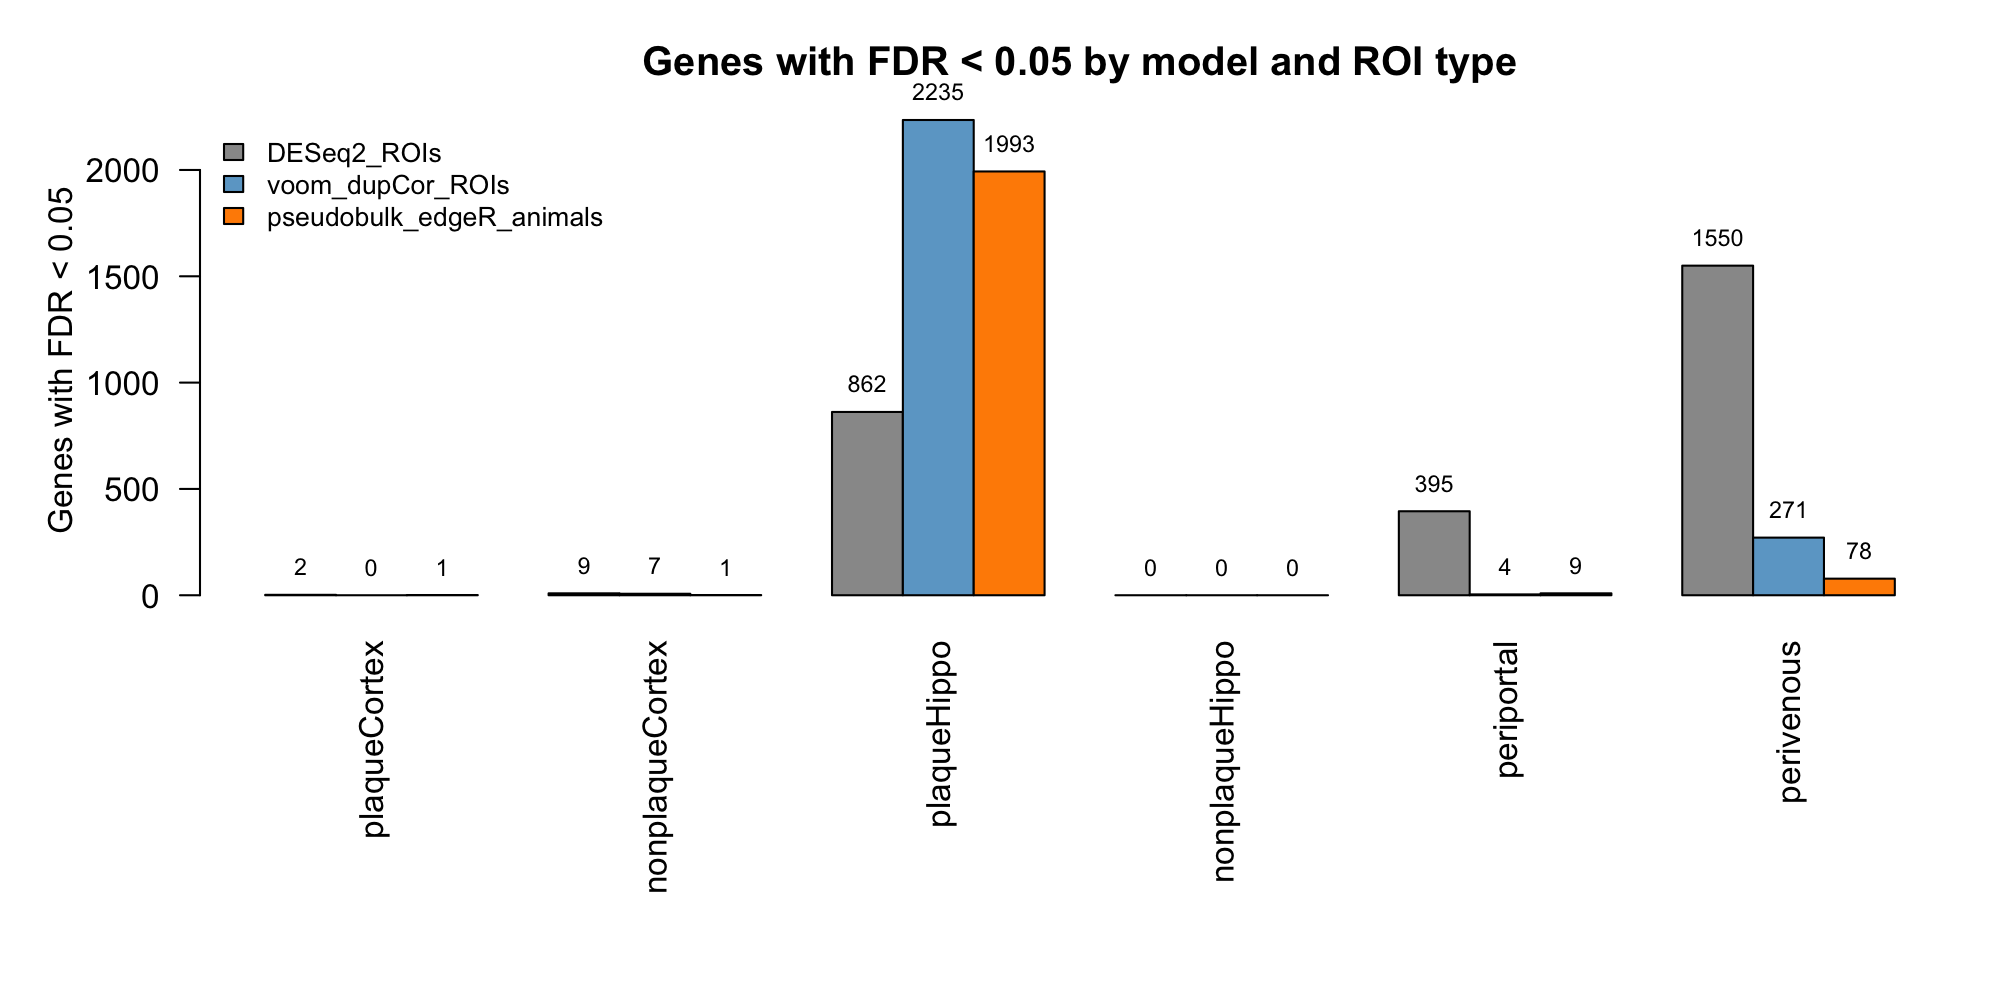
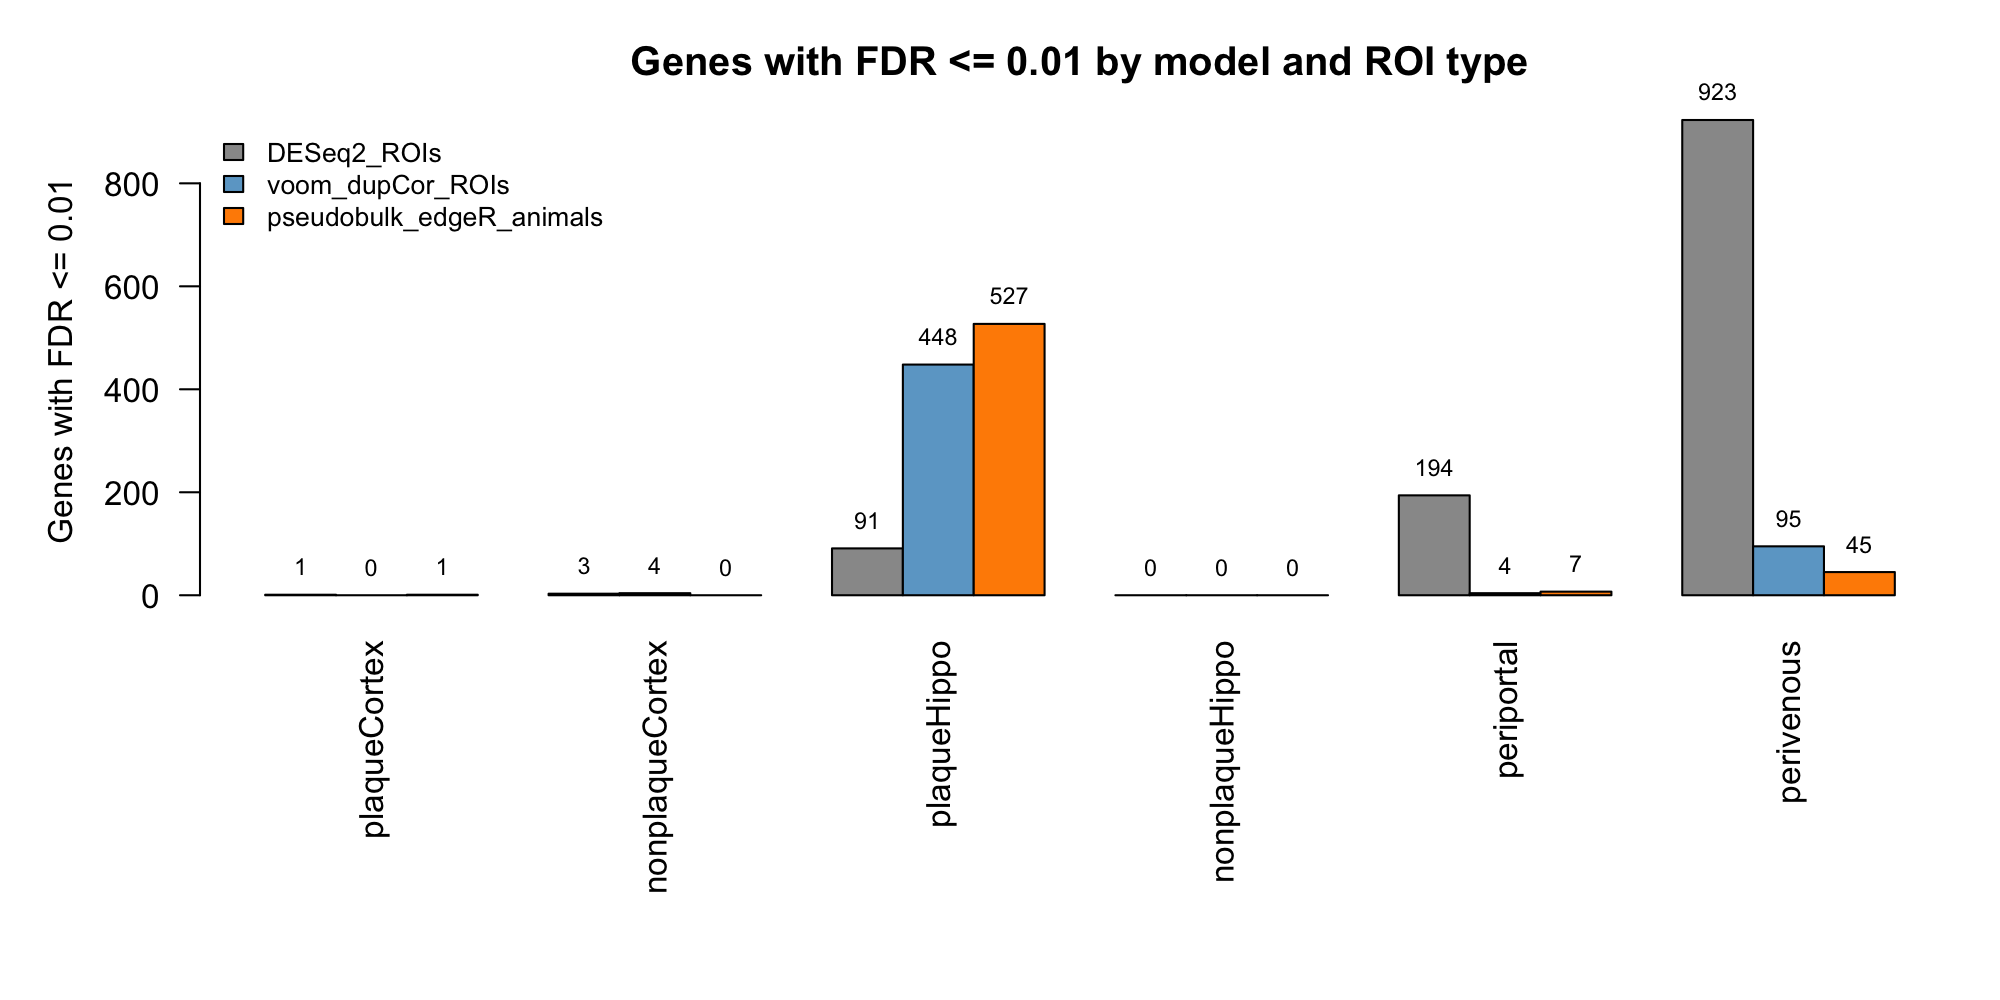
Use FDR <= 0.01 to match the original analysis
Applies to DEG counts, volcano plots, heatmaps, the label swap check and the filter check
README results table updated with the new counts

diff --git a/README.md b/README.md
@@ -50,20 +50,20 @@ The script `R/05_label_swap_check.R` reruns the pseudobulk model on each incorre
 
 ## Results
 
-The table below shows the results from the primary pseudobulk model.
+The table below shows the results from the primary pseudobulk model. Genes are called significant at FDR ≤ 0.01, which is the same cutoff used in the original analysis.
 
-| ROI type | Genes tested | Genes with FDR < 0.05 | Genes with FDR < 0.05 using the two incorrect pairings |
+| ROI type | Genes tested | Genes with FDR ≤ 0.01 | Genes with FDR ≤ 0.01 using the two incorrect pairings |
 |---|---|---|---|
-| plaqueCortex | 15570 | 1 | 3 / 1 |
-| nonplaqueCortex | 18549 | 1 | 19 / 8 |
-| plaqueHippo | 16624 | 1993 | 0 / 0 |
+| plaqueCortex | 15570 | 1 | 0 / 0 |
+| nonplaqueCortex | 18549 | 0 | 7 / 5 |
+| plaqueHippo | 16624 | 527 | 0 / 0 |
 | nonplaqueHippo | 17024 | 0 | 0 / 0 |
-| periportal | 19303 | 9 | 823 / 8 |
-| perivenous | 18235 | 78 | 12 / 23 |
+| periportal | 19303 | 7 | 284 / 5 |
+| perivenous | 18235 | 45 | 2 / 16 |
 
-The plaque bearing hippocampus is the only ROI type where the true grouping produces far more significant genes than the incorrect pairings. In the periportal liver, one incorrect pairing produced 823 significant genes compared with 9 for the true grouping, so the periportal results at the animal level should be interpreted carefully. With two animals per group, the genes found here are best treated as candidates for further validation.
+The plaque bearing hippocampus is the only ROI type where the true grouping produces far more significant genes than the incorrect pairings. The perivenous liver also produces more significant genes than either incorrect pairing, but the difference is smaller. In the periportal liver, one incorrect pairing produced 284 significant genes compared with 7 for the true grouping, so the periportal results at the animal level should be interpreted carefully. With two animals per group, the genes found here are best treated as candidates for further validation.
 
-The script `R/06_filter_sensitivity.R` also tests an optional filter that keeps genes based on their mean count. This filter is set by `thresholds: min_rowmean` and is turned off by default. The liver results change with this filter. For example, the number of perivenous genes with FDR < 0.05 drops from 78 to 31 when genes need a mean count of at least 50.
+The script `R/06_filter_sensitivity.R` also tests an optional filter that keeps genes based on their mean count. This filter is set by `thresholds: min_rowmean` and is turned off by default. The liver results change with this filter. For example, the number of perivenous genes with FDR ≤ 0.01 drops from 45 to 10 when genes need a mean count of at least 50.
 
 ## Running the Pipeline
 
@@ -86,7 +86,7 @@ R/05_label_swap_check.R    reruns the primary model with the incorrect animal pa
 R/06_filter_sensitivity.R  tests the optional mean count filter
 ```
 
-Each run saves its outputs to `results/`. The `dge_tables/` folder holds one table per ROI type and model, and `dge_summary.csv` summarizes them. The `volcano/`, `heatmaps/`, and `qc/` folders hold the figures. A heatmap is only drawn for ROI types with more than 10 pseudobulk DEGs, which are genes with FDR < 0.05 and an absolute log2 fold change above 0.32. The `ranked_lists/` folder holds ranked gene lists that can be used for GSEA. The label swap and filter checks are saved as `label_swap_check.csv` and `filter_sensitivity.csv`, and the R session details are saved in `sessionInfo.txt`.
+Each run saves its outputs to `results/`. The `dge_tables/` folder holds one table per ROI type and model, and `dge_summary.csv` summarizes them. The `volcano/`, `heatmaps/`, and `qc/` folders hold the figures. A heatmap is only drawn for ROI types with more than 10 pseudobulk DEGs, which are genes with FDR ≤ 0.01 and an absolute log2 fold change above 0.32. The `ranked_lists/` folder holds ranked gene lists that can be used for GSEA. The label swap and filter checks are saved as `label_swap_check.csv` and `filter_sensitivity.csv`, and the R session details are saved in `sessionInfo.txt`.
 
 ## Interpreting the Results
 
